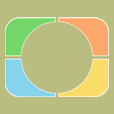
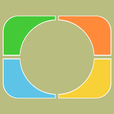
Fixed issue that the new status bar in iOS 7 was causing.  The default status bar in iOS 7 adds 20 px to the window, but in iOS 6 this would oush the window down 20 pixels.  The solution right now is to only show the status bar in iOS 7 version, and not in earlier versions.
Also updated all of the app icons, including adding all of the others required for App Store approval.

diff --git a/CribbageBoard/CBAppDelegate.m b/CribbageBoard/CBAppDelegate.m
@@ -21,9 +21,20 @@
     self.window = [[UIWindow alloc] initWithFrame:[[UIScreen mainScreen] bounds]];
     // Override point for customization after application launch.
     
+    // Count the times the app is launched
+    NSUserDefaults *prefs = [NSUserDefaults standardUserDefaults];
+    NSInteger launchCount = [prefs integerForKey:@"launchCount"];
+    launchCount++;
+    NSLog(@"Application has been launched %d times", launchCount);
+    [prefs setInteger:launchCount  forKey:@"launchCount"];
+    
     CBSwitchViewController *svc = [[CBSwitchViewController alloc] initWithNibName:@"CBSwitchViewController" bundle:nil];
     self.window.rootViewController = svc;
     [self createEditableCopyOfPlistIfNeeded];
+    
+    if ([[[UIDevice currentDevice] systemVersion] floatValue] < 7.0) {
+        [[UIApplication sharedApplication] setStatusBarHidden:YES];
+    }
     
     self.window.backgroundColor = [UIColor whiteColor];
     [self.window makeKeyAndVisible];

diff --git a/CribbageBoard/CBBoardViewController.m b/CribbageBoard/CBBoardViewController.m
@@ -57,6 +57,7 @@ const int DEFAULT_GAME_SCORE = 121;     // The default score of the app (Cribbag
             NSLog(@"iPhone 5 xib file loaded");
         }
     }
+    
     if (self) {
         // Custom initialization
         
@@ -68,6 +69,12 @@ const int DEFAULT_GAME_SCORE = 121;     // The default score of the app (Cribbag
         [self initializeScoresFromPlist];
         
         addToScoreField.delegate = self;
+        
+        // On first ever startup, load an instruction subview
+//        NSUserDefaults *prefs = [NSUserDefaults standardUserDefaults];
+//        if (([[prefs objectForKey:@"launchCount"] integerValue] == 1) {
+//            
+//        }
     }
     return self;
 }

diff --git a/CribbageBoard/CBSwitchViewController.m b/CribbageBoard/CBSwitchViewController.m
@@ -19,7 +19,6 @@
 @synthesize boardVC;
 @synthesize infoVC;
 
-
 static CBSwitchViewController *instance = NULL;
 
 - (id)initWithNibName:(NSString *)nibNameOrNil bundle:(NSBundle *)nibBundleOrNil
